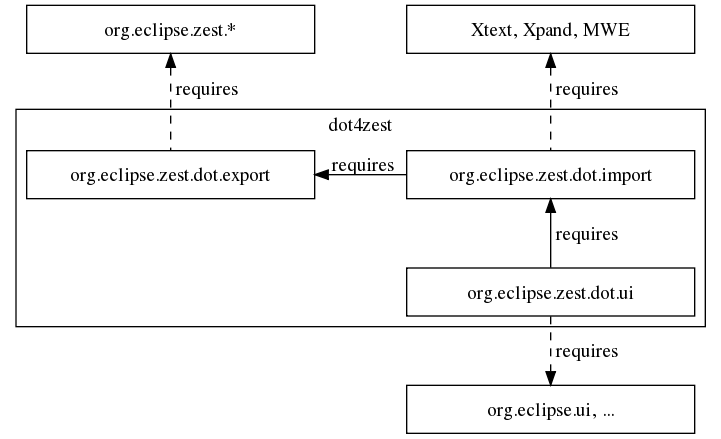
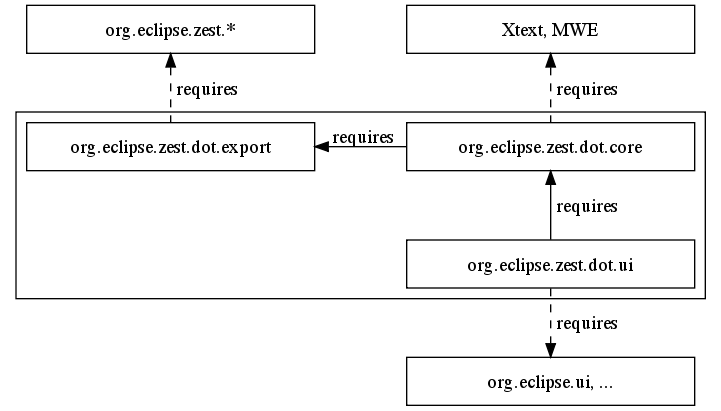
[277380] gef-head fsteeg 101108 Updated dot4zest documentation and version numbers

diff --git a/org.eclipse.zest.dot.ui/Graphviz_DOT_as_a_DSL_for_Zest/Graphviz-DOT-as-a-DSL-for-Zest.html b/org.eclipse.zest.dot.ui/Graphviz_DOT_as_a_DSL_for_Zest/Graphviz-DOT-as-a-DSL-for-Zest.html
@@ -34,33 +34,9 @@
 			<i>http://download.eclipse.org/modeling/tmf/updates/releases</i> set up. Note that the dot4zest update site is provided externally for easy access to preview releases, and is not hosted by the Eclipse Foundation.
 		</p>
 		<h3 id="GUI">GUI</h3>
-		<p>In the UI, this feature adds two wizards ('New Zest Graph' and 'New Zest Project') under a category labeled 'Visualization':</p>
-		<p>
-			<img width="400" border="0" src="images/DotZestWizards.png"/>
-		</p>
-		<p>And a 'Zest Graph' view:</p>
+		<p>This feature adds a DOT editor and a Zest graph view to the UI:</p>
 		<p>
 			<img border="0" src="images/DotZestViewSelection.png"/>
-		</p>
-		<h4 id="New_Zest_Project">New Zest Project</h4>
-		<p>This wizard sets up a Zest project. The project created by the wizard contains a 'templates' folder containing sample DOT files. The DOT files in the 'templates' folder are compiled to Zest graph subclasses automatically, and can be launched as Java applications to view the Zest Graph:</p>
-		<p>
-			<img width="400" border="0" src="images/DotZestProjectWizard.png"/>
-		</p>
-		<p>This  implements a basic Zest authoring environment using DOT as a DSL, as upon saving the DOT file, the same Zest application can be relaunched, showing the Zest graph created from the changed DOT file. See the section on the graph view below for a way to visualize the DOT without running the generated class.</p>
-		<h4 id="New_Zest_Graph">New Zest Graph</h4>
-		<p>This wizard creates a new Zest graph subclass. In the first page the container and a graph template are selected, the resulting Zest graph for the template is previewed:</p>
-		<p>
-			<img width="400" border="0" src="images/DotZestGraphWizardPage.png"/>
-		</p>
-		<p>In the second page the DOT representation of the selected template can be customized. After the wizard finishes, it runs the generated Zest Graph to display the result (here customized in the second page):</p>
-		<p>
-			<img width="200" border="0" src="images/DotZestGraphWizardResult.png"/>
-		</p>
-		<p>The generated Zest file will be in the 
-			<i>org.eclipse.zest.dot</i> package. To get a compiling result without setting up anything, select the 
-			<i>org.eclipse.zest.dot</i> package in the 
-			<i>src-gen</i> folder of a Zest project as the container in the wizard (or select it before starting the wizard).
 		</p>
 		<h4 id="Zest_Graph_View">Zest Graph View</h4>
 		<p>The Zest Graph view can visualize DOT graphs in *.dot files or embedded in other files in the workspace. The view draws the DOT graphs using Zest and allows for image export of the current Zest graph. When automatic updating is enabled (see below), and a *.dot file or embedded DOT content is added to the workspace or altered in an editor, the Zest graph view is updated with the graph created from the DOT input. For instance, consider a file with the .dot extension, containing the following DOT graph definition: </p>
@@ -80,9 +56,7 @@
 		<p>
 			<img border="0" src="images/DotZestM2Rendered.png"/>
 		</p>
-		<p>This completes the Zest-based DOT authoring environment. If the *.dot file is inside the 
-			<i>templates/</i> folder of a Zest project, the file will be visualized in the Zest Graph view (e.g. during editing), compiled to a Zest graph subclass (e.g. to be used in a different application), and can be exported as a PDF with Graphviz.
-		</p>
+		<p>This provides a Zest-based DOT authoring environment. If a *.dot file or embedded DOT is edited, it will be visualized in the Zest Graph view (e.g. during editing), and can be exported as a PDF with Graphviz.</p>
 		<p>At the same time the view provides a simple way to visualize *.dot file output of any kind of program, e.g. to visualize and debug internal data structures, results, etc: if a program running in Eclipse outputs any *.dot file in the workspace and the workspace is refreshed, the view will be updated with the corresponding Zest graph (if automatic updating is enabled, see above).</p>
 		<h4 id="Editing">Editing</h4>
 		<p>The Zest view can be used with the included DOT editor to visualize a DOT file:</p>
@@ -97,49 +71,48 @@
 			<img width="400" border="0" src="images/DotZestWikiText.png"/>
 		</p>
 		<h3 id="API">API</h3>
-		<p>Via the API, DOT can be imported to Zest graph subclasses (*.java files) or Zest graph instances, and Zest graph instances can be exported to DOT or image files.</p>
-		<h4 id="DOT_Graph">DOT Graph</h4>
-		<p>The easiest way to create a Zest graph from DOT input is to use the 
-			<i>Dot</i> class:
+		<p>Via the API, DOT can be imported to Zest graph instances, and Zest graph instances can be exported to DOT.</p>
+		<p>To use the API, create a new Plug-in project, add 
+			<i>org.eclipse.zest.dot.core</i> to the MANIFEST.MF dependencies, paste the code below into the source folder of the created project, and select 
+			<i>Run As &gt; Java Application</i>:
 		</p>
-		<pre>/* A Dot graph is a Zest graph that can be created from DOT: */
-Dot graph = new Dot("digraph{1-&gt;2}", shell, SWT.NONE);
-/* The Dot graph can be modified using DOT snippets: */
-graph.add("2-&gt;3; 2-&gt;4");
-/* The snippets can contain DOT node and edge attributes: */
-graph.add("node[label=zested]; edge[style=dashed]; 3-&gt;5; 4-&gt;6");
+		<pre> import org.eclipse.swt.SWT;
+ import org.eclipse.swt.layout.FillLayout;
+ import org.eclipse.swt.widgets.Display;
+ import org.eclipse.swt.widgets.Shell;
+ import org.eclipse.zest.dot.DotGraph;
 </pre>
-		<h4 id="DOT_Import">DOT Import</h4>
-		<p>To import DOT to Zest, the 
-			<i>DotImport</i> class is used:
-		</p>
-		<pre>/* The DOT input, can be given as a String, File or IFile: */
-DotImport importer = new DotImport("digraph Simple { 1;2; 1-&gt;2 }");
-/* Compile the DOT input to a Zest graph subclass: */
-File file = importer.newGraphSubclass();
-/* Or create a Zest graph instance in a parent, with a style: */
-Graph graph = importer.newGraphInstance(shell, SWT.NONE);
+		<pre> public class SampleUsage {
 </pre>
-		<h4 id="DOT_Export">DOT Export</h4>
-		<p>To export a Zest graph to DOT, the 
-			<i>DotExport</i> class is used:
-		</p>
-		<pre>/* For some Zest graph, we create the exporter: */
-DotExport exporter = new DotExport(graph);
-/* Export the Zest graph to DOT: */
-String dot = exporter.toDotString();
-/* Or to an image file, via a given Graphviz installation: */
-File image = exporter.toImage("/opt/local/bin", "pdf");
+		<pre>   public static void main(String[] args) {
+     Shell shell = new Shell();
+     DotGraph graph = new DotGraph("digraph{ 1-&gt;2 }", shell, SWT.NONE);
+     graph.add("2-&gt;3").add("2-&gt;4");
+     graph.add("node[label=zested]; edge[style=dashed]; 3-&gt;5; 4-&gt;6");
+     open(shell);
+     System.out.println(graph.toDot());
+   }
+</pre>
+		<pre>   private static void open(final Shell shell) {
+     shell.setText(DotGraph.class.getSimpleName());
+     shell.setLayout(new FillLayout());
+     shell.setSize(600, 300);
+     shell.open();
+     Display display = shell.getDisplay();
+     while (!shell.isDisposed())
+       if (!display.readAndDispatch())
+         display.sleep();
+     display.dispose();
+   }
+</pre>
+		<pre> }
 </pre>
 		<p>The complete sample usage is 
-			<a href="http://dev.eclipse.org/viewcvs/index.cgi/org.eclipse.gef/plugins/org.eclipse.zest.dot.import/src-test/org/eclipse/zest/dot/SampleUsage.java?root=Tools_Project&amp;view=markup" target="doc_external">available in the repository</a>, as well as working 
-			<a href="http://dev.eclipse.org/viewcvs/index.cgi/org.eclipse.gef/plugins/org.eclipse.zest.dot.import/resources/tests/?root=Tools_Project" target="doc_external">DOT input samples</a>.
+			<a href="http://dev.eclipse.org/viewcvs/index.cgi/org.eclipse.gef/test/org.eclipse.zest.dot.tests/src/org/eclipse/zest/tests/dot/SampleUsage.java?root=Tools_Project&amp;view=markup" target="doc_external">available in the repository</a>, as well as working 
+			<a href="http://dev.eclipse.org/viewcvs/index.cgi/org.eclipse.gef/test/org.eclipse.zest.dot.tests/resources/tests/?root=Tools_Project" target="doc_external">DOT input samples</a>.
 		</p>
 		<h3 id="Subgraphs">Subgraphs</h3>
-		<p>Cluster subgraphs imported to a Zest Graph instance (using 
-			<i>new Dot</i> or 
-			<i>DotImport#newGraphInstance</i>) are rendered as Zest graph containers, e.g.:
-		</p>
+		<p>Cluster subgraphs imported to a Zest Graph instance are rendered as Zest graph containers, e.g.:</p>
 		<pre>digraph subgraphs {
   subgraph cluster1 { 1 -&gt; 2; 2 -&gt; 3; 2 -&gt; 4 }
   subgraph cluster2 { a -&gt; b; a -&gt; c; a -&gt; d }
@@ -162,38 +135,6 @@ File image = exporter.toImage("/opt/local/bin", "pdf");
 		<p>
 			<img width="400" border="0" src="images/DotZestSubgraphs2.png"/>
 		</p>
-		<h3 id="Animation">Animation</h3>
-		<p>Cluster subgraphs imported to a Zest Graph subclass (using 
-			<i>DotImport#newGraphSubclass</i>) trigger  experimental animation support, where animation steps are represented as subgraphs in the DOT input (which if rendered with Graphviz results in a static description of the animation).
-		</p>
-		<p>For instance, for the input below a Zest animation is created in which the single steps can be executed by clicking the button below the graph:</p>
-		<pre>digraph SampleAnimation {
- /* We can specify a Zest layout for the animation here: */
- layout=tree // = TreeLayoutAlgorithm
- /* Global attributes can be defined for edges and nodes: */
- node[label="Node"]
- edge[label="Edge" style=dotted]
- 1;2;3;4;5
- /* The single animation steps are marked by numbers: */
- subgraph cluster_0{ 1 -&gt; 2 [label="Dashed" style=dashed]}
- subgraph cluster_1{ 1 -&gt; 3 }
- /* The final animation step needs to be marked with "end": */
- subgraph cluster_2_end{ 3 -&gt; 4; 3 -&gt; 5}
-}
-</pre>
-		<p>After the first step:</p>
-		<p>
-			<img width="200" border="0" src="images/DotZestM5Screenshot1.png"/>
-		</p>
-		<p>And the final state of the graph:</p>
-		<p>
-			<img width="200" border="0" src="images/DotZestM5Screenshot2.png"/>
-		</p>
-		<p>The same input file, exported with Graphviz, shows the animation steps as subgraphs:</p>
-		<p>
-			<img width="200" border="0" src="images/DotZestAnimatedExport.png"/>
-		</p>
-		<p>A possible use case for defining such animations with DOT is to easily create animated course material, e.g. to explain data structures. The same file defining the animation can be used to export a PDF illustrating the steps in a static way.</p>
 		<h2 id="Developer_Documentation">Developer Documentation</h2>
 		<p>The goal of this feature is to implement the 
 			<a href="http://www.graphviz.org/" target="doc_external">Graphviz</a> 
@@ -204,7 +145,7 @@ File image = exporter.toImage("/opt/local/bin", "pdf");
 			<a href="http://socghop.appspot.com/student_project/show/google/gsoc2009/eclipse/t124022230869" target="doc_external">project</a> in the 
 			<a href="http://wiki.eclipse.org/Google_Summer_of_Code_2009" title="Google Summer of Code 2009" target="doc_external">Google Summer of Code 2009</a> by 
 			<a href="http://wiki.eclipse.org/User:Steeg.netcologne.de" title="User:Steeg.netcologne.de" target="doc_external">Fabian Steeg</a>, mentored by Ian Bull, for 
-			<a href="http://wiki.eclipse.org/GEF_Zest_Visualization" title="GEF Zest Visualization" target="doc_external">Zest</a>.
+			<a href="http://wiki.eclipse.org/GEF_Zest_Visualization" title="GEF Zest Visualization" target="doc_external">Zest</a>. It is currently scheduled for inclusion in the Indigo simultaneous release.
 		</p>
 		<h3 id="Resources">Resources</h3>
 		<p>
@@ -222,10 +163,11 @@ File image = exporter.toImage("/opt/local/bin", "pdf");
 			<a href="https://bugs.eclipse.org/bugs/buglist.cgi?query_format=specific&amp;order=relevance+desc&amp;bug_status=__all__&amp;product=GEF&amp;content=%5Bdot4zest%5D" target="doc_external">complete list</a> of related bugs. If you have suggestions for this feature you can 
 			<a href="https://bugs.eclipse.org/bugs/enter_bug.cgi?bug_file_loc=http%3A%2F%2Fwiki.eclipse.org%2FGraphviz_DOT_as_a_DSL_for_Zest&amp;bug_severity=enhancement&amp;bug_status=NEW&amp;comment=&amp;component=Zest&amp;contenttypeentry=&amp;contenttypemethod=autodetect&amp;contenttypeselection=text%2Fplain&amp;data=&amp;description=&amp;flag_type-1=X&amp;flag_type-2=X&amp;flag_type-6=X&amp;form_name=enter_bug&amp;maketemplate=Remember%20values%20as%20bookmarkable%20template&amp;op_sys=All&amp;priority=P3&amp;product=GEF&amp;rep_platform=All&amp;short_desc=%5Bdot4zest%5D%20New%20request%20summary&amp;version=unspecified" target="doc_external">file a new bug</a>. The code for this feature is part of the CVS repository at 
 			<i>dev.eclipse.org:/cvsroot/tools</i>. The dot4zest bundles can be found in 
-			<i>org.eclipse.gef/plugins</i>, named 
+			<i>org.eclipse.gef/plugins</i> and 
+			<i>org.eclipse.gef/test</i>, named 
 			<i>org.eclipse.zest.dot.*</i>. 
 		</p>
-		<p>To run the current work in progress code (in Eclipse 3.6 Helios), install the Zest, JET, Xpand, Xtext and MWE 1.x.x features (which are available from the Helios update site under the 
+		<p>To run the current work in progress code (in Eclipse 3.6 Helios), install the Zest, JET, Xtext and MWE features (which are available from the Helios update site under the 
 			<i>modeling</i> category). You will also have to install the Xtext Antlr feature 1.x.x from the Itemis update site at 
 			<i>
 				<a href="http://download.itemis.com/updates/milestones" target="doc_external">http://download.itemis.com/updates/milestones</a>
@@ -237,7 +179,8 @@ File image = exporter.toImage("/opt/local/bin", "pdf");
 			<i>/src/org/eclipse/zest/internal/dot/parser</i> folder of the import bundle. Make sure to set the project or workspace encoding to UTF-8.
 		</p>
 		<p>Run the 
-			<i>*Suite.java</i> test suites of the individual bundles (in src-test/) as JUnit tests to get an impression of the current implementation state. To test the UI components, run an Eclipse application configured with 
+			<i>All*.java</i> test suites of the test bundle (
+			<i>org.eclipse.gef/test/org.eclipse.zest.dot.tests</i>) as JUnit or JUnit Pug-in tests to get an impression of the current implementation state. To use the UI components, run an Eclipse application configured with 
 			<i>org.eclipse.zest.dot.ui</i> and required plugins. See details on usage in the user documentation above.
 		</p>
 		<h3 id="Motivation">Motivation</h3>
@@ -253,9 +196,7 @@ File image = exporter.toImage("/opt/local/bin", "pdf");
 		<p>The dot4zest functionality is implemented based on 
 			<a href="http://www.eclipse.org/modeling/" target="doc_external">Eclipse Modeling</a> technologies, in particular 
 			<a href="http://wiki.eclipse.org/Xtext" target="doc_external">Xtext</a> (part of 
-			<a href="http://www.eclipse.org/modeling/tmf" target="doc_external">TMF</a>) and 
-			<a href="http://wiki.eclipse.org/Xpand" target="doc_external">Xpand</a> (part of 
-			<a href="http://www.eclipse.org/modeling/m2t" target="doc_external">M2T</a>) for the input part (parse DOT, generate Zest) and 
+			<a href="http://www.eclipse.org/modeling/tmf" target="doc_external">TMF</a>) for the input part (parse DOT, generate Zest) and 
 			<a href="http://wiki.eclipse.org/M2T-JET" target="doc_external">JET</a> for the output (see details below).
 		</p>
 		<p>
@@ -269,7 +210,7 @@ File image = exporter.toImage("/opt/local/bin", "pdf");
 			</div>
 		</p>
 		<h4 id="DOT_to_Zest">DOT to Zest</h4>
-		<p>Based on an Xtext grammar, dot4zest uses an Xpand generator that transforms Graphviz DOT descriptions into Java code which creates an equivalent Zest visualization. There is also a way to define Zest animations using the DOT language (by representing animation steps as subgraphs in DOT, see user guide above). Besides this compiler, dot4zest also interprets the parsed DOT EMF model to dynamically create Zest graphs in the Zest view (see above).</p>
+		<p>Based on an Xtext grammar, dot4zest interprets the parsed DOT EMF model using the generated Xtext switch API to dynamically create Zest graphs. The Zest graph view uses this to display DOT with Zest (see above).</p>
 		<h4 id="Zest_to_DOT">Zest to DOT</h4>
 		<p>To transform Zest graph instances to the Graphviz DOT language dot4zest uses 
 			<a href="http://wiki.eclipse.org/M2T-JET" target="doc_external">JET</a>. 
@@ -278,14 +219,6 @@ File image = exporter.toImage("/opt/local/bin", "pdf");
 		<p>Second, even if we had a DOT meta model instance (which we could create from the Zest graph), using Xpand would introduce a runtime dependency on the 
 			<a href="http://wiki.eclipse.org/Modeling_Workflow_Engine_(MWE)" target="doc_external">Modeling Workflow Engine</a>, whereas with JET we only introduce a dependency on a single class (the generator class JET created from the template).
 		</p>
-		<h4 id="User_Interface">User Interface</h4>
-		<p>To make these transformations available to the user, the DOT to Zest transformations (which depend on Eclipse modeling technology at runtime) are available as part of the workbench, while the generated Zest graph classes and the DOT output  can be used directly and without (or with very little, see above) additional runtime dependencies, e.g. in pure Zest SWT applications.</p>
-		<p>To generate Zest from DOT, dot4zest defines a wizard that creates a Zest graph subclass and basic sample usage code from Graphviz DOT  input inside the wizard (see user documentation above). The wizard offers different DOT templates to the user (e.g. 
-			<i>simple directed graph</i>, 
-			<i>simple animation</i>), which can be edited in the wizard, with a live preview of what the Zest graph is going to look like.
-		</p>
-		<p>Extending this kind of functionality, dot4zest adds a Zest project type where the DOT files are placed in a special folder (and can be edited conveniently using the included DOT editor). Using a project builder, the corresponding Zest Graph implementation classes are generated, which can be used from other parts of the project's code, similar to JET templates and generators. </p>
-		<p>To provide visualization of DOT graphs using Zest in a workbench, dot4zest contains a Zest graph view which views a DOT graph with Zest by interpreting the EMF model parsed from the DOT input (see user guide above).</p>
 		<h3 id="Future_Ideas">Future Ideas</h3>
 		<ul>
 			<li>Add support for different Graphviz shapes through 
@@ -293,10 +226,38 @@ File image = exporter.toImage("/opt/local/bin", "pdf");
 			</li>
 			<li>Add support to visualize Graphviz subgraphs as separate Zest graphs that can be accessed from the main graph</li>
 			<li>Look into possible ways of supporting Graphviz edge decorators (open or closed arrows, diamonds, etc.)</li>
-			<li>Evaluate integration of the 
-				<i>Dot</i> class functionality (see API section above) as part of the standard Zest graph API
+			<li>Map all graph, node and edge attributed from DOT input to corresponding Zest widget data (currently supported for graph attributes)</li>
+			<li>Add animation support using something like 
+				<i>subgraph cluster_animation_1 { label = "Step 1"; 1-&gt;2 }</i> etc., where animation steps are represented as subgraphs in the DOT input (which if rendered with Graphviz results in a static description of the animation)
 			</li>
 		</ul>
+		<p>For instance, for the input below a Zest animation could be created that changes like this (this is an experimental illustation of the idea):</p>
+		<pre>digraph SampleAnimation {
+ /* We can specify a Zest layout for the animation here: */
+ layout=tree // = TreeLayoutAlgorithm
+ /* Global attributes can be defined for edges and nodes: */
+ node[label="Node"]
+ edge[label="Edge" style=dotted]
+ 1;2;3;4;5
+ /* The single animation steps are marked by numbers: */
+ subgraph cluster_animation_0{ 1 -&gt; 2 [label="Dashed" style=dashed]}
+ subgraph cluster_animation_1{ 1 -&gt; 3 }
+ subgraph cluster_animation_2{ 3 -&gt; 4; 3 -&gt; 5}
+}
+</pre>
+		<p>After the first step:</p>
+		<p>
+			<img width="200" border="0" src="images/DotZestM5Screenshot1.png"/>
+		</p>
+		<p>And the final state of the graph:</p>
+		<p>
+			<img width="200" border="0" src="images/DotZestM5Screenshot2.png"/>
+		</p>
+		<p>The same input file, exported with Graphviz, shows the animation steps as subgraphs:</p>
+		<p>
+			<img width="200" border="0" src="images/DotZestAnimatedExport.png"/>
+		</p>
+		<p>A possible use case for defining such animations with DOT is to easily create animated documentation, e.g. to explain data structures. The same file defining the animation could be used to export a PDF illustrating the steps in a static way.</p>
 		<p>
 			<a href="http://wiki.eclipse.org/Category:SOC" title="Category:SOC" target="doc_external">Category:SOC</a>
 
